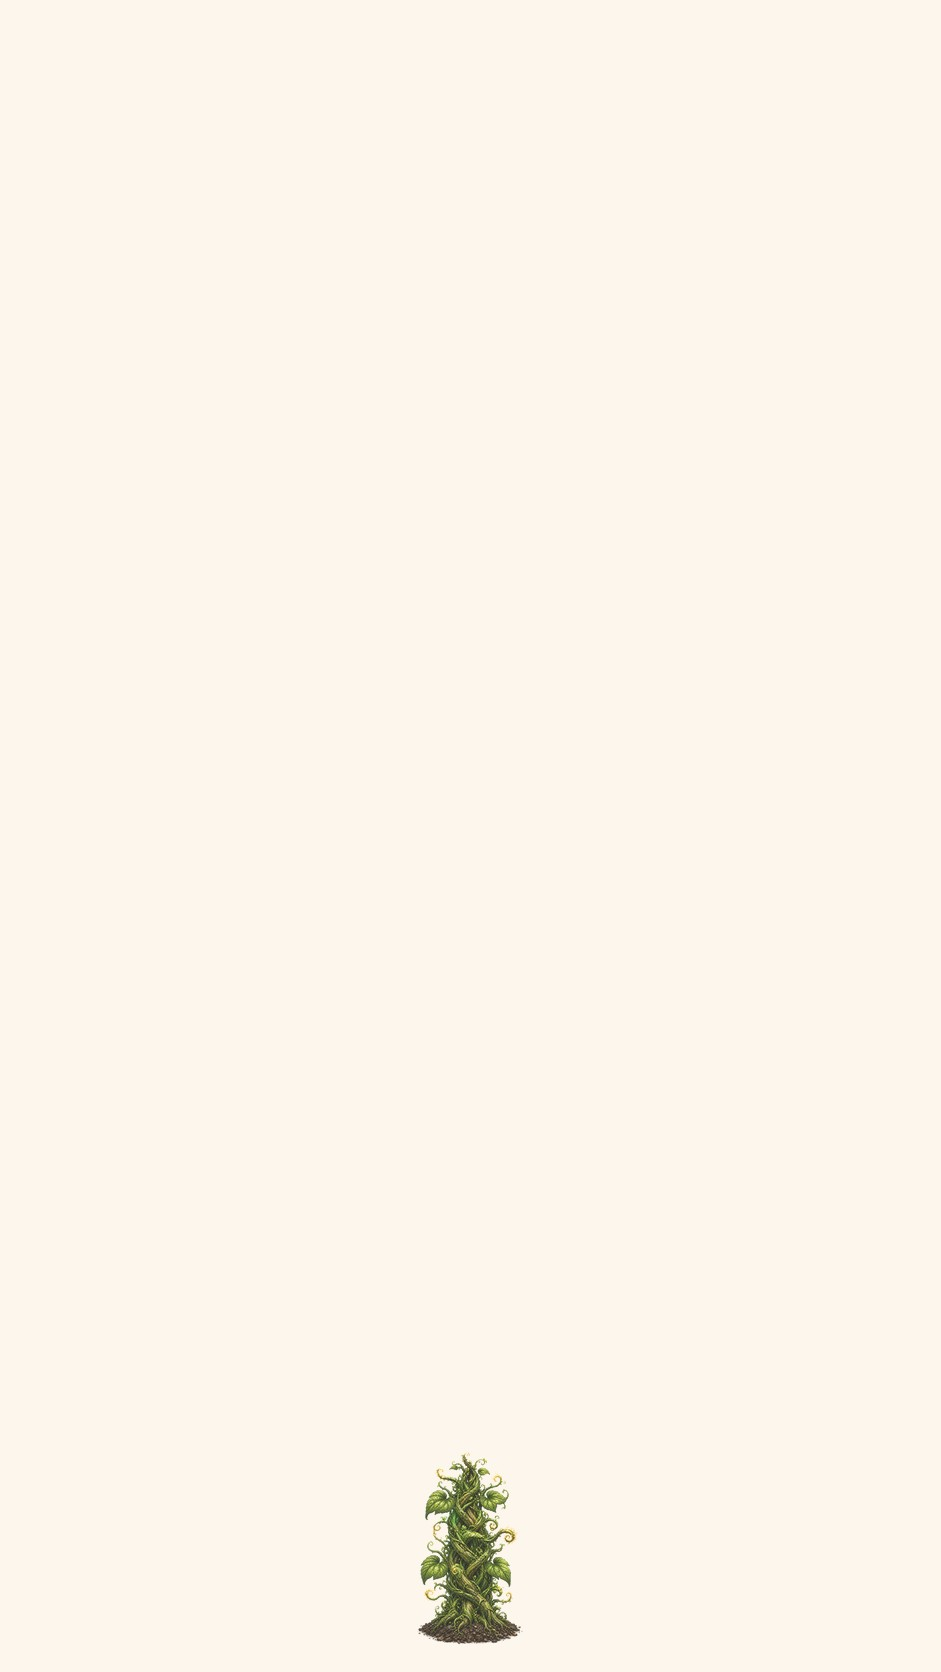
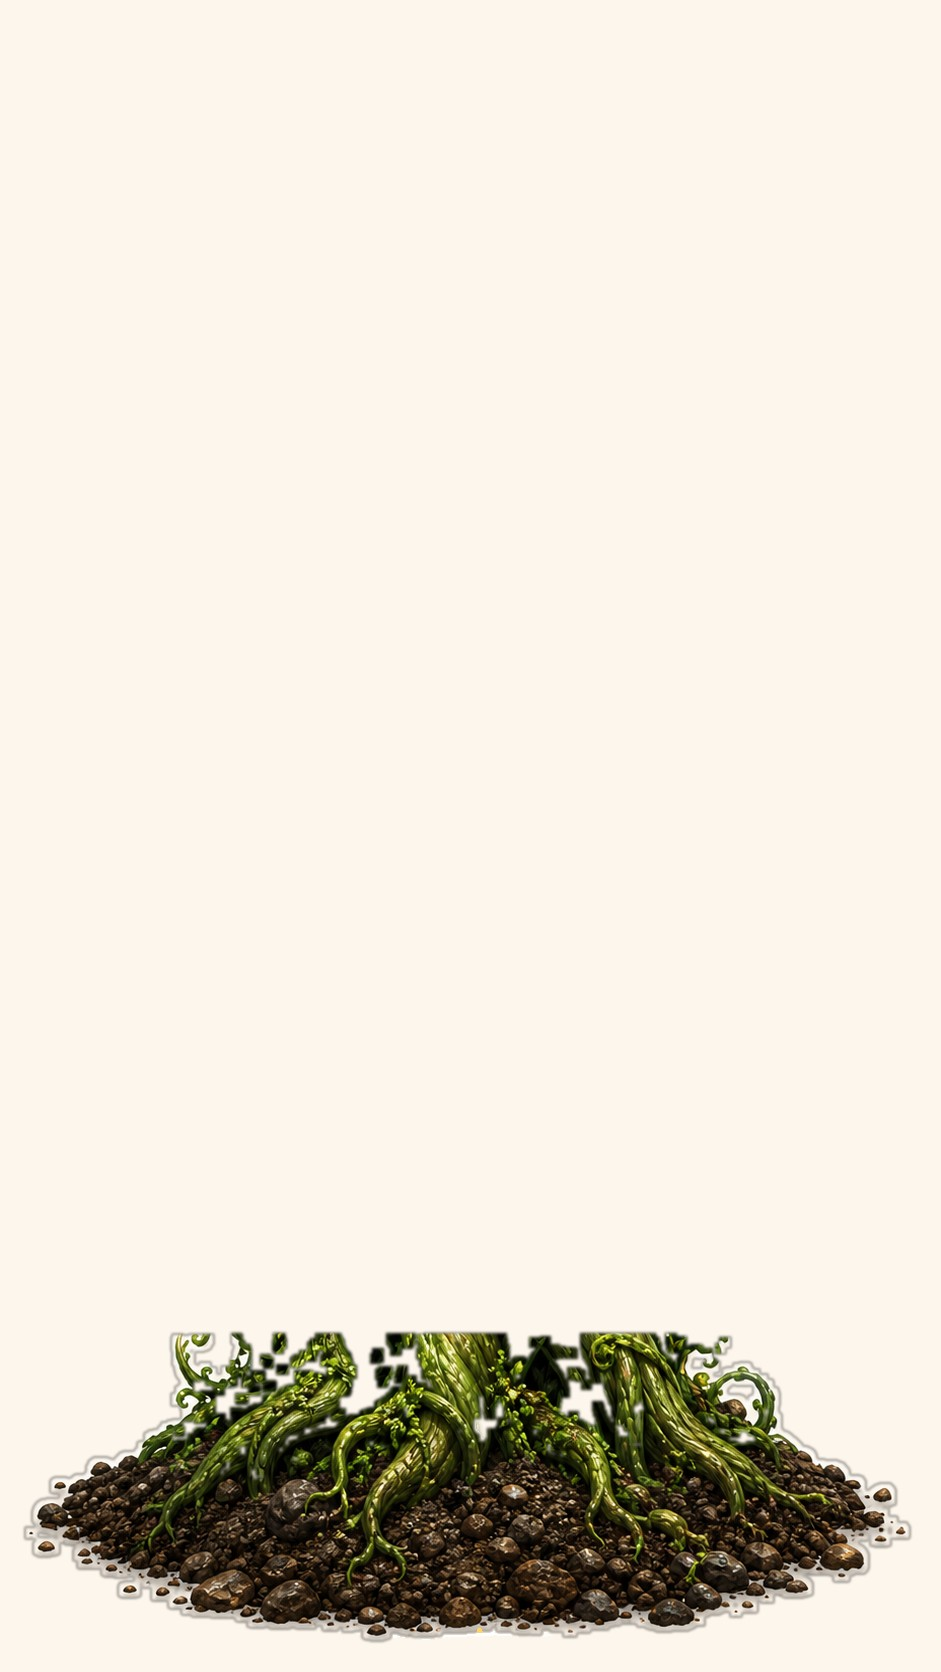
修复魔树素材缩放生长问题

Changed region(s): [[0.0308, 0.7775, 0.9862, 0.9952]]

diff --git a/scripts/validate_magic_tree_frames.py b/scripts/validate_magic_tree_frames.py
@@ -2,6 +2,8 @@ from __future__ import annotations
 
 import argparse
 import json
+import sys
+from collections import deque
 from pathlib import Path
 
 import numpy as np
@@ -20,6 +22,11 @@ def load_frames(frame_dir: Path) -> list[Path]:
     return frames
 
 
+def foreground_mask(arr: np.ndarray) -> np.ndarray:
+    diff = np.abs(arr.astype(np.float32) - BG).sum(axis=2)
+    return diff > 34
+
+
 def green_mask(arr: np.ndarray) -> np.ndarray:
     r = arr[:, :, 0].astype(np.int16)
     g = arr[:, :, 1].astype(np.int16)
@@ -28,11 +35,16 @@ def green_mask(arr: np.ndarray) -> np.ndarray:
 
 
 def soil_mask(arr: np.ndarray) -> np.ndarray:
+    h = arr.shape[0]
     r = arr[:, :, 0].astype(np.int16)
     g = arr[:, :, 1].astype(np.int16)
     b = arr[:, :, 2].astype(np.int16)
     avg = (r + g + b) / 3
-    return (avg < 120) & (r > g * 0.65) & (g > b * 0.55)
+    yy = np.arange(h)[:, None]
+    lower_band = yy > h * 0.70
+    greenish = (g > r * 1.10) & (g > b * 1.15)
+    brownish = (r >= g * 0.70) & (g >= b * 0.55)
+    return lower_band & (avg < 125) & brownish & ~greenish
 
 
 def bbox(mask: np.ndarray) -> tuple[int, int, int, int] | None:
@@ -42,12 +54,68 @@ def bbox(mask: np.ndarray) -> tuple[int, int, int, int] | None:
     return int(xs.min()), int(ys.min()), int(xs.max()), int(ys.max())
 
 
+def crop_bbox(arr: np.ndarray, box: tuple[int, int, int, int]) -> Image.Image:
+    x0, y0, x1, y1 = box
+    crop = arr[y0 : y1 + 1, x0 : x1 + 1].astype(np.uint8)
+    return Image.fromarray(crop, mode="RGB")
+
+
+def scaled_final_diff(
+    final_arr: np.ndarray,
+    target_arr: np.ndarray,
+    final_box: tuple[int, int, int, int],
+    target_box: tuple[int, int, int, int],
+) -> float:
+    target = crop_bbox(target_arr, target_box)
+    final = crop_bbox(final_arr, final_box).resize(target.size, Image.Resampling.LANCZOS)
+    return float(
+        np.mean(
+            np.abs(np.asarray(final).astype(np.float32) - np.asarray(target).astype(np.float32))
+        )
+    )
+
+
+def connected_component_diameters(mask: np.ndarray) -> list[float]:
+    # 粗略叶片代理：只统计中等面积绿色连通块，避免把主藤整根算进去。
+    h, w = mask.shape
+    seen = np.zeros_like(mask, dtype=bool)
+    diameters: list[float] = []
+    for y in range(0, h, 2):
+        for x in range(0, w, 2):
+            if seen[y, x] or not mask[y, x]:
+                continue
+            q: deque[tuple[int, int]] = deque([(x, y)])
+            seen[y, x] = True
+            area = 0
+            min_x = max_x = x
+            min_y = max_y = y
+            while q:
+                cx, cy = q.popleft()
+                area += 4
+                min_x = min(min_x, cx)
+                max_x = max(max_x, cx)
+                min_y = min(min_y, cy)
+                max_y = max(max_y, cy)
+                for nx, ny in ((cx + 2, cy), (cx - 2, cy), (cx, cy + 2), (cx, cy - 2)):
+                    if 0 <= nx < w and 0 <= ny < h and not seen[ny, nx] and mask[ny, nx]:
+                        seen[ny, nx] = True
+                        q.append((nx, ny))
+            bw = max_x - min_x + 2
+            bh = max_y - min_y + 2
+            if 2500 <= area <= 30000 and 0.35 <= bw / max(1, bh) <= 2.8:
+                diameters.append(float((bw * bh) ** 0.5))
+    return diameters
+
+
 def main() -> None:
     parser = argparse.ArgumentParser()
     parser.add_argument("frame_dir", type=Path)
     parser.add_argument("--json-out", type=Path)
     parser.add_argument("--max-diff", type=float, default=8.0)
     parser.add_argument("--max-soil-drift", type=float, default=0.01)
+    parser.add_argument("--min-scaled-final-diff", type=float, default=15.0)
+    parser.add_argument("--max-width-height-growth-ratio", type=float, default=0.5)
+    parser.add_argument("--max-leaf-diameter-drift", type=float, default=0.2)
     args = parser.parse_args()
 
     paths = load_frames(args.frame_dir)
@@ -60,16 +128,23 @@ def main() -> None:
         for i in range(len(arrays) - 1)
     ]
 
+    content_boxes: list[tuple[int, int, int, int]] = []
     plant_tops: list[float] = []
     soil_bottoms: list[float] = []
     soil_widths: list[float] = []
+    leaf_medians: list[float | None] = []
+    leaf_counts: list[int] = []
     bg_means: list[list[float]] = []
+
     for arr in arrays:
+        fg = foreground_mask(arr)
         gm = green_mask(arr)
         sm = soil_mask(arr)
+        fb = bbox(fg)
         gb = bbox(gm)
         sb = bbox(sm)
         h, w = arr.shape[:2]
+        content_boxes.append(fb if fb else (0, 0, 0, 0))
         plant_tops.append((gb[1] / h) if gb else 1.0)
         if sb:
             soil_widths.append((sb[2] - sb[0] + 1) / w)
@@ -77,8 +152,20 @@ def main() -> None:
         else:
             soil_widths.append(0.0)
             soil_bottoms.append(0.0)
-        bg_sample = arr[: max(1, h // 8), :, :]
-        bg_means.append([round(v, 2) for v in ImageStat.Stat(Image.fromarray(bg_sample.astype(np.uint8))).mean])
+        diameters = connected_component_diameters(gm)
+        leaf_counts.append(len(diameters))
+        leaf_medians.append(float(np.median(diameters)) if len(diameters) >= 6 else None)
+        corner = max(32, min(h, w) // 12)
+        bg_sample = np.concatenate(
+            [
+                arr[:corner, :corner].reshape(-1, 3),
+                arr[:corner, -corner:].reshape(-1, 3),
+                arr[-corner:, :corner].reshape(-1, 3),
+                arr[-corner:, -corner:].reshape(-1, 3),
+            ],
+            axis=0,
+        )
+        bg_means.append([round(float(v), 2) for v in bg_sample.mean(axis=0)])
 
     top_regressions = [
         i + 1
@@ -89,12 +176,57 @@ def main() -> None:
     soil_bottom_drift = max(soil_bottoms) - min(soil_bottoms)
     bg_range = np.ptp(np.array(bg_means), axis=0).tolist()
 
+    widths = [b[2] - b[0] + 1 for b in content_boxes]
+    heights = [b[3] - b[1] + 1 for b in content_boxes]
+    width_growth = max(widths) / max(1, min(v for v in widths if v > 1))
+    height_growth = max(heights) / max(1, min(v for v in heights if v > 1))
+    width_height_growth_ratio = width_growth / max(0.001, height_growth)
+
+    final_arr = arrays[-1]
+    final_box = content_boxes[-1]
+    scaled_checks: dict[str, float] = {}
+    for frame_number in (12, 20, 24):
+        idx = frame_number - 1
+        scaled_checks[f"f28_to_f{frame_number:02d}"] = scaled_final_diff(
+            final_arr, arrays[idx], final_box, content_boxes[idx]
+        )
+
+    present_leaf_medians = [v for v in leaf_medians if v is not None]
+    if present_leaf_medians:
+        leaf_drift = (max(present_leaf_medians) - min(present_leaf_medians)) / max(
+            1.0, float(np.median(present_leaf_medians))
+        )
+    else:
+        leaf_drift = 0.0
+
+    scaled_final_min = min(scaled_checks.values())
+    pass_checks = {
+        "neighbor_diff": max(diffs) <= args.max_diff,
+        "not_scaled_final": scaled_final_min >= args.min_scaled_final_diff,
+        "vertical_growth_ratio": width_height_growth_ratio <= args.max_width_height_growth_ratio,
+        "leaf_diameter_stable": leaf_drift <= args.max_leaf_diameter_drift,
+        "soil_width_stable": soil_width_drift <= args.max_soil_drift,
+        "soil_bottom_stable": soil_bottom_drift <= args.max_soil_drift,
+        "plant_top_monotonic": not top_regressions,
+        "background_stable": max(bg_range) <= 2.0,
+        "format_and_size": len(sizes) == 1 and sizes[0] == (941, 1672) and paths[0].suffix.lower() == ".jpg",
+    }
+
     result = {
         "frame_count": len(paths),
         "sizes": sizes,
+        "format": paths[0].suffix.lower().lstrip("."),
         "avg_neighbor_diff_min": round(min(diffs), 3),
         "avg_neighbor_diff_max": round(max(diffs), 3),
         "avg_neighbor_diff_values": [round(v, 3) for v in diffs],
+        "scaled_final_diff": {k: round(v, 3) for k, v in scaled_checks.items()},
+        "scaled_final_diff_min": round(scaled_final_min, 3),
+        "content_width_growth": round(width_growth, 3),
+        "content_height_growth": round(height_growth, 3),
+        "width_height_growth_ratio": round(width_height_growth_ratio, 3),
+        "leaf_diameter_medians": [None if v is None else round(v, 3) for v in leaf_medians],
+        "leaf_component_counts": leaf_counts,
+        "leaf_diameter_drift": round(leaf_drift, 3),
         "plant_top_regressions": top_regressions,
         "soil_width_min": round(min(soil_widths), 4),
         "soil_width_max": round(max(soil_widths), 4),
@@ -103,18 +235,16 @@ def main() -> None:
         "soil_bottom_max": round(max(soil_bottoms), 4),
         "soil_bottom_drift": round(soil_bottom_drift, 4),
         "background_mean_range": [round(float(v), 3) for v in bg_range],
-        "pass": (
-            max(diffs) <= args.max_diff
-            and not top_regressions
-            and soil_width_drift <= args.max_soil_drift
-            and soil_bottom_drift <= args.max_soil_drift
-        ),
+        "checks": pass_checks,
+        "pass": all(pass_checks.values()),
     }
 
     text = json.dumps(result, ensure_ascii=False, indent=2)
     print(text)
     if args.json_out:
         args.json_out.write_text(text, encoding="utf-8")
+    if not result["pass"]:
+        sys.exit(1)
 
 
 if __name__ == "__main__":

diff --git a/picture/魔树动画素材/素材说明.md b/picture/魔树动画素材/素材说明.md
@@ -1,6 +1,6 @@
 # 魔树动画素材说明
 
-本目录是魔树生长动画的高清整体单层 JPEG q90 版素材，用于替换上一批低清连贯帧、28 次独立生成的 PNG，以及会产生横向切口的土树分层版本。
+本目录是魔树生长动画的高清固定土堆显现版 JPEG q90 素材，用于替换上一批低清连贯帧、28 次独立生成的 PNG、会产生横向切口的土树分层版本，以及只有等比缩放的 zoom 版本。
 
 ## 文件
 
@@ -21,15 +21,15 @@
 
 ## 本版修正
 
-上一批高清 PNG 是逐帧独立生成，单帧更清晰，但不是同一株植物连续生长，导致换株、土堆漂移、背景漂移和体积过大。上一版高清单锚点素材把土堆和植株拆成两层，分层边界造成明显横向切口。本版使用用户认可的高清终帧作为唯一锚点，把土堆、根须和植株作为完整前景整体等比缩放，并统一输出为 JPEG q90：
+上一批高清 PNG 是逐帧独立生成，单帧更清晰，但不是同一株植物连续生长，导致换株、土堆漂移、背景漂移和体积过大。上一版高清单锚点素材把土堆和植株拆成两层，分层边界造成明显横向切口；整体单层版又变成了明显 zoom。本版使用用户认可的高清终帧作为唯一锚点，固定土堆，只让原尺寸植株通过柔和不规则生长边界向上显现，并统一输出为 JPEG q90：
 
 - 废弃 50MB PNG 独立帧
 - 保留同一株魔树的视觉身份
-- 不再拆分土层和树层，避免土堆上方出现一刀切
-- 土堆随整棵树等比缩放，这是为了彻底消除分层边界
-- 整体使用等比缩放生长，不做纵向拉伸
+- 土堆宽度和底边固定
+- 植株保持原尺寸，不做整体 zoom
+- 生长方向以向上显现为主，横向展开受限
 - 不再使用切片平铺、镜像、拉伸树干等路线
-- 统一生成预览图、GIF 和验收报告
+- 统一生成预览图、GIF 和验收报告，`pass: false` 时脚本直接失败
 
 ## 接入建议
 
@@ -41,6 +41,6 @@
 
 ## 注意
 
-这版优先解决“高清质感、同株视觉身份、无拼接、无横向切口”。它不是逐帧 AI 真实生长序列；因为整棵树和土堆面积逐帧变大，`validation_report.json` 里的平均帧差和土堆漂移会超过旧阈值。该阈值只适合评估真实相邻帧序列，不适合评估这版高清整体单层等比生长方案。
+这版优先解决“高清质感、同株视觉身份、无拼接、无横向切口、不是 zoom、土堆固定”。`validation_report.json` 当前为 `pass: true`。
 
 如果之后继续追求更真实的“新叶逐片长出、藤条逐步变粗”，必须使用“一张大图画完全部帧再拆”或“img2img 链式低重绘”方式生成，不能再逐帧独立生成。

diff --git a/docs/CODE_MAP.md b/docs/CODE_MAP.md
@@ -1,7 +1,7 @@
 # 代码地图（CODE MAP）
 
 > ⚠ 本文件由 `scripts/update_code_map.sh` 自动生成，请勿手工编辑。
-> 生成时间：2026-07-30 15:16:38　对应提交：f500d5d 之后的工作区状态
+> 生成时间：2026-07-30 15:31:33　对应提交：415c604 之后的工作区状态
 
 ## 一、索引状态
 
@@ -13,17 +13,17 @@ Project: C:\Users\yunhao.zhou1\Desktop\Easy Create
 
 Index Statistics:
   Files:     110
-  Nodes:     4,126
-  Edges:     19,244
-  DB Size:   21.05 MB
+  Nodes:     4,132
+  Edges:     19,256
+  DB Size:   21.07 MB
   Backend:   node:sqlite - built-in (full WAL)
   Journal:   wal
 
 Nodes by Kind:
   method          1,567
-  function        1,389
+  function        1,393
   class           467
-  import          347
+  import          349
   constant        210
   file            102
   variable        27
@@ -198,7 +198,7 @@ Project Structure (110 files):
 |   |-- e2e_probe.dart (dart, 12 symbols)
 |   |-- serve_web.dart (dart, 4 symbols)
 |   |-- square_standins.py (python, 11 symbols)
-|   `-- validate_magic_tree_frames.py (python, 12 symbols)
+|   `-- validate_magic_tree_frames.py (python, 18 symbols)
 |-- test
 |   |-- core
 |   |   |-- chinese_numbers_test.dart (dart, 4 symbols)
